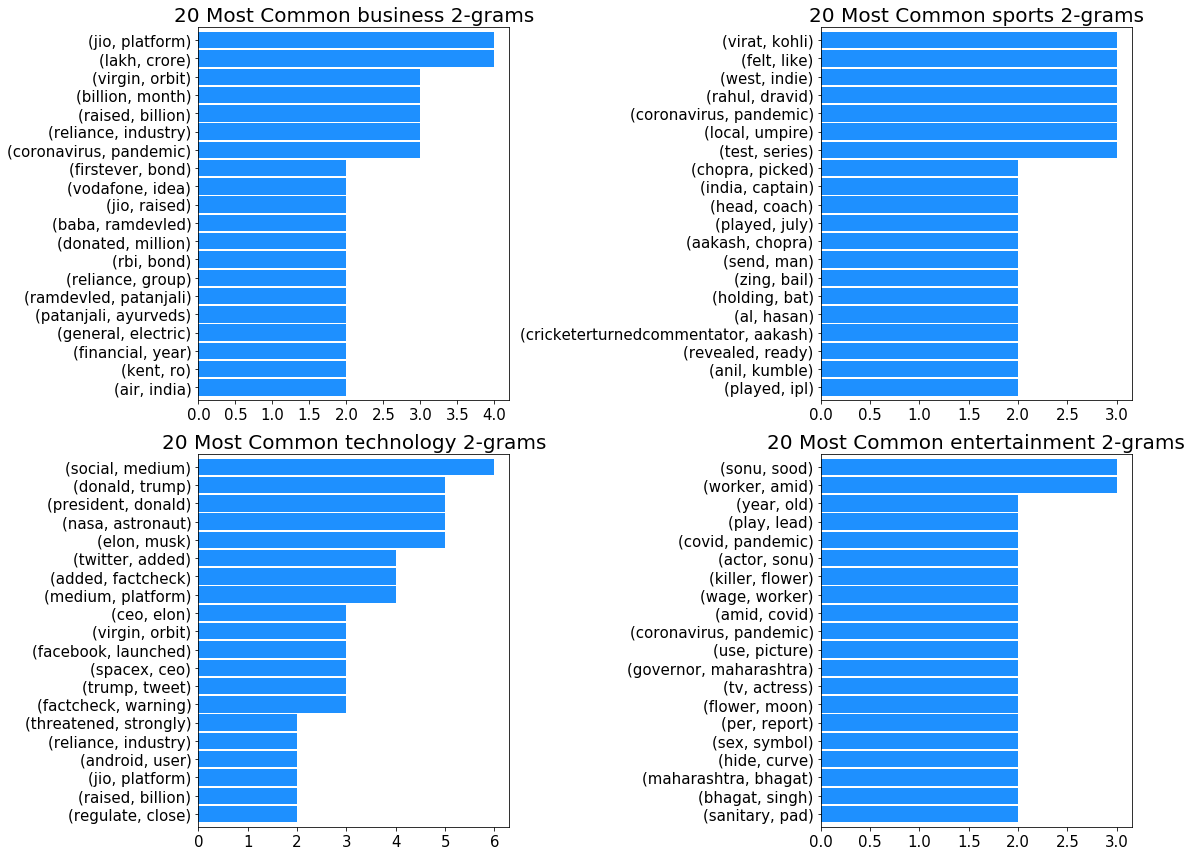
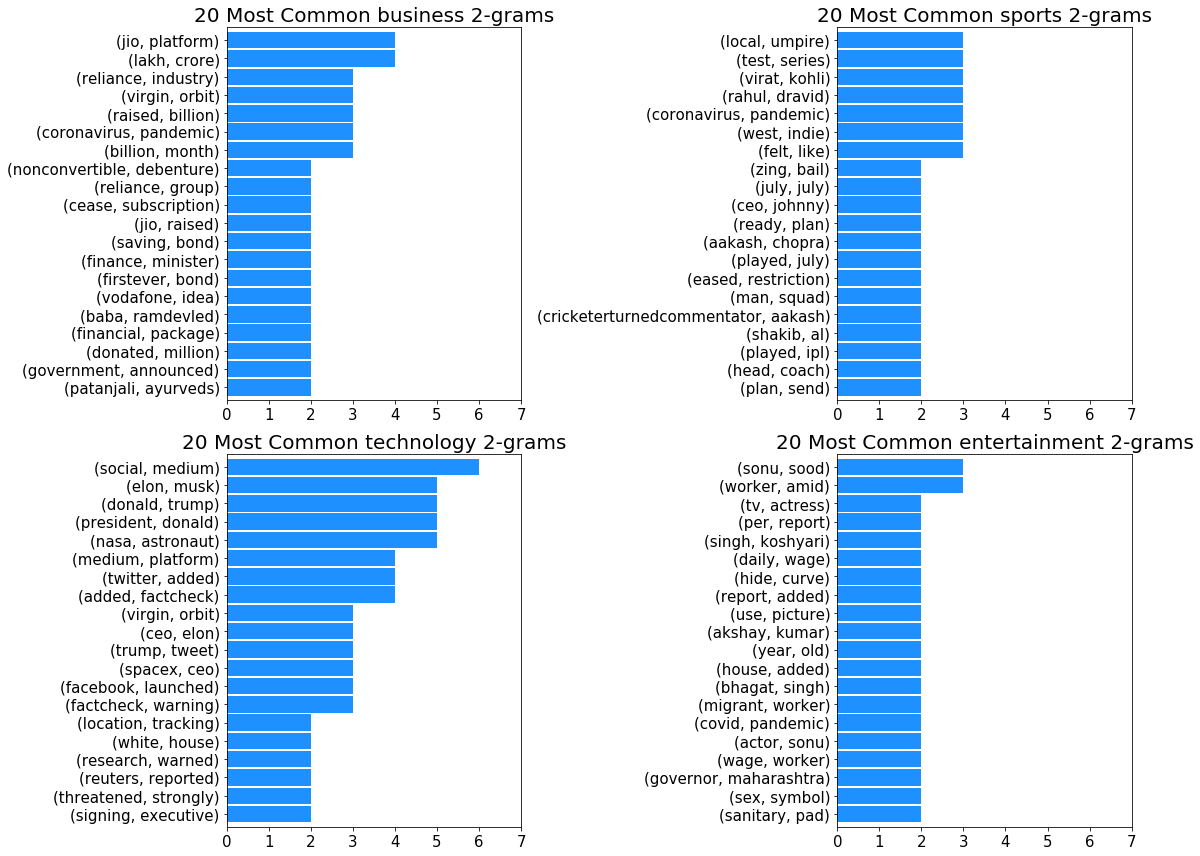
Commit addition of paramter to barchart function to equalize x-axes

diff --git a/nlp_explore_notebook/nlp_explore_notebook.html b/nlp_explore_notebook/nlp_explore_notebook.html
@@ -13740,9 +13740,9 @@ $( document ).ready(function(){
 
 
 <div class="output_text output_subarea output_execute_result">
-<pre>sports           25
+<pre>entertainment    25
 business         25
-entertainment    25
+sports           25
 technology       25
 Name: label, dtype: int64</pre>
 </div>
@@ -14272,8 +14272,8 @@ Name: label, dtype: int64</pre>
 </ul>
 <ul>
 <li><code>ngrams_compare()</code> will take in a df with a <code>label</code> column and a <code>text</code> column, 
-  an int: 1 for unigrams, 2 for bigrams, 3 for trigrams,
-  and a string for color for customization and display horizontal bar chart
+  an int: 1 for unigrams, 2 for bigrams, 3 for trigrams, a string for color customization,
+  and an int to set the max value on the x-axis to equalize subplot axes and display 
   subplots by topic with the top 20 common uni-, bi-, or trigrams.</li>
 </ul>
 
@@ -14877,12 +14877,12 @@ Name: label, dtype: int64</pre>
 <div class="prompt input_prompt">In&nbsp;[33]:</div>
 <div class="inner_cell">
     <div class="input_area">
-<div class=" highlight hl-ipython3"><pre><span></span><span class="k">def</span> <span class="nf">ngrams_compare</span><span class="p">(</span><span class="n">df</span><span class="p">,</span> <span class="n">num</span><span class="p">,</span> <span class="n">color</span><span class="p">):</span>
+<div class=" highlight hl-ipython3"><pre><span></span><span class="k">def</span> <span class="nf">ngrams_compare</span><span class="p">(</span><span class="n">df</span><span class="p">,</span> <span class="n">num</span><span class="p">,</span> <span class="n">color</span><span class="p">,</span> <span class="n">xlim</span><span class="p">):</span>
     <span class="sd">&#39;&#39;&#39;</span>
 <span class="sd">    This function takes in a df with a &#39;label&#39; column and a &#39;text&#39; column, </span>
-<span class="sd">    an int: 1 for unigrams, 2 for bigrams, 3 for trigrams,</span>
-<span class="sd">    and a string for color for customization and displays horizontal bar chart</span>
-<span class="sd">    subplots by topic with the top 20 common uni-, bi-, or trigrams.</span>
+<span class="sd">    an int: 1 for unigrams, 2 for bigrams, 3 for trigrams, a string for color customization, </span>
+<span class="sd">    and an int to set the max value on the x-axis to equalize subplot axes </span>
+<span class="sd">    and displays horizontal bar chart subplots by topic with the top 20 common uni-, bi-, or trigrams.</span>
 <span class="sd">    &#39;&#39;&#39;</span>
     <span class="c1"># create topics list to loop through</span>
     <span class="n">topics</span> <span class="o">=</span> <span class="n">df</span><span class="o">.</span><span class="n">label</span><span class="o">.</span><span class="n">unique</span><span class="p">()</span>
@@ -14912,6 +14912,9 @@ Name: label, dtype: int64</pre>
         
         <span class="c1"># print customized title</span>
         <span class="n">plt</span><span class="o">.</span><span class="n">title</span><span class="p">(</span><span class="s1">&#39;20 Most Common &#39;</span> <span class="o">+</span> <span class="n">topic</span> <span class="o">+</span> <span class="s1">&#39; &#39;</span> <span class="o">+</span> <span class="nb">str</span><span class="p">(</span><span class="n">num</span><span class="p">)</span> <span class="o">+</span> <span class="s1">&#39;-grams&#39;</span><span class="p">,</span> <span class="n">fontsize</span><span class="o">=</span><span class="mi">20</span><span class="p">)</span>
+        
+        <span class="c1"># set x-axis of horizontal bar chart</span>
+        <span class="n">plt</span><span class="o">.</span><span class="n">xlim</span><span class="p">(</span><span class="mi">0</span><span class="p">,</span> <span class="n">xlim</span><span class="p">)</span>
 
         <span class="c1"># reorder y-axis of horizontal bar chart</span>
         <span class="n">plt</span><span class="o">.</span><span class="n">gca</span><span class="p">()</span><span class="o">.</span><span class="n">invert_yaxis</span><span class="p">()</span>
@@ -14931,7 +14934,7 @@ Name: label, dtype: int64</pre>
 <div class="prompt input_prompt">In&nbsp;[34]:</div>
 <div class="inner_cell">
     <div class="input_area">
-<div class=" highlight hl-ipython3"><pre><span></span><span class="n">ngrams_compare</span><span class="p">(</span><span class="n">df_lem</span><span class="p">,</span> <span class="mi">1</span><span class="p">,</span> <span class="s1">&#39;thistle&#39;</span><span class="p">)</span>
+<div class=" highlight hl-ipython3"><pre><span></span><span class="n">ngrams_compare</span><span class="p">(</span><span class="n">df_lem</span><span class="p">,</span> <span class="mi">1</span><span class="p">,</span> <span class="s1">&#39;thistle&#39;</span><span class="p">,</span> <span class="mi">16</span><span class="p">)</span>
 </pre></div>
 
     </div>
@@ -14965,7 +14968,7 @@ Name: label, dtype: int64</pre>
 <div class="prompt input_prompt">In&nbsp;[35]:</div>
 <div class="inner_cell">
     <div class="input_area">
-<div class=" highlight hl-ipython3"><pre><span></span><span class="n">ngrams_compare</span><span class="p">(</span><span class="n">df_lem</span><span class="p">,</span> <span class="mi">2</span><span class="p">,</span> <span class="s1">&#39;dodgerblue&#39;</span><span class="p">)</span>
+<div class=" highlight hl-ipython3"><pre><span></span><span class="n">ngrams_compare</span><span class="p">(</span><span class="n">df_lem</span><span class="p">,</span> <span class="mi">2</span><span class="p">,</span> <span class="s1">&#39;dodgerblue&#39;</span><span class="p">,</span> <span class="mi">7</span><span class="p">)</span>
 </pre></div>
 
     </div>
@@ -14999,7 +15002,7 @@ Name: label, dtype: int64</pre>
 <div class="prompt input_prompt">In&nbsp;[36]:</div>
 <div class="inner_cell">
     <div class="input_area">
-<div class=" highlight hl-ipython3"><pre><span></span><span class="n">ngrams_compare</span><span class="p">(</span><span class="n">df_lem</span><span class="p">,</span> <span class="mi">3</span><span class="p">,</span> <span class="s1">&#39;darkorange&#39;</span><span class="p">)</span>
+<div class=" highlight hl-ipython3"><pre><span></span><span class="n">ngrams_compare</span><span class="p">(</span><span class="n">df_lem</span><span class="p">,</span> <span class="mi">3</span><span class="p">,</span> <span class="s1">&#39;darkorange&#39;</span><span class="p">,</span> <span class="mi">6</span><span class="p">)</span>
 </pre></div>
 
     </div>
@@ -15103,8 +15106,8 @@ Name: label, dtype: int64</pre>
 <pre>billion       14
 company       13
 crore         10
-india          9
 investment     9
+india          9
 dtype: int64</pre>
 </div>
 
@@ -15138,11 +15141,11 @@ dtype: int64</pre>
 
 
 <div class="output_text output_subarea output_execute_result">
-<pre>gaming          1
-son             1
-deal            1
-akash           1
-communicated    1
+<pre>largest    1
+looking    1
+fund       1
+founded    1
+cyrus      1
 dtype: int64</pre>
 </div>
 
@@ -15221,11 +15224,11 @@ dtype: int64</pre>
 
 
 <div class="output_text output_subarea output_execute_result">
-<pre>bhumi         1
-commenting    1
-utensil       1
-cm            1
-instance      1
+<pre>cine     1
+train    1
+child    1
+v        1
+urged    1
 dtype: int64</pre>
 </div>
 
@@ -15268,8 +15271,8 @@ dtype: int64</pre>
 <div class="output_text output_subarea output_execute_result">
 <pre>captain    11
 added      11
-cricket    10
 test       10
+cricket    10
 batsman     8
 dtype: int64</pre>
 </div>
@@ -15304,11 +15307,11 @@ dtype: int64</pre>
 
 
 <div class="output_text output_subarea output_execute_result">
-<pre>march            1
-elite            1
-ill              1
-inzamamulhaq     1
-international    1
+<pre>saleem      1
+sort        1
+starting    1
+major       1
+negative    1
 dtype: int64</pre>
 </div>
 
@@ -15350,8 +15353,8 @@ dtype: int64</pre>
 
 <div class="output_text output_subarea output_execute_result">
 <pre>user        13
-trump       11
 facebook    11
+trump       11
 platform    10
 google      10
 dtype: int64</pre>
@@ -15387,11 +15390,11 @@ dtype: int64</pre>
 
 
 <div class="output_text output_subarea output_execute_result">
-<pre>science     1
-april       1
-hacked      1
-catchup     1
-escobars    1
+<pre>ai           1
+consent      1
+divisive     1
+implement    1
+exploring    1
 dtype: int64</pre>
 </div>
 
@@ -15470,11 +15473,11 @@ dtype: int64</pre>
 
 
 <div class="output_text output_subarea output_execute_result">
-<pre>maanvi    1
-nine      1
-ill       1
-kl        1
-ab        1
+<pre>debut     1
+smooth    1
+zhao      1
+k         1
+okay      1
 dtype: int64</pre>
 </div>
 
@@ -16174,7 +16177,7 @@ dtype: int64</pre>
 
 
 <div class="output_text output_subarea output_execute_result">
-<pre>dict_items([((&#39;jio&#39;, &#39;platform&#39;), 4), ((&#39;lakh&#39;, &#39;crore&#39;), 4), ((&#39;virgin&#39;, &#39;orbit&#39;), 3), ((&#39;billion&#39;, &#39;month&#39;), 3), ((&#39;raised&#39;, &#39;billion&#39;), 3), ((&#39;reliance&#39;, &#39;industry&#39;), 3), ((&#39;coronavirus&#39;, &#39;pandemic&#39;), 3), ((&#39;firstever&#39;, &#39;bond&#39;), 2), ((&#39;vodafone&#39;, &#39;idea&#39;), 2), ((&#39;jio&#39;, &#39;raised&#39;), 2), ((&#39;baba&#39;, &#39;ramdevled&#39;), 2), ((&#39;donated&#39;, &#39;million&#39;), 2), ((&#39;rbi&#39;, &#39;bond&#39;), 2), ((&#39;reliance&#39;, &#39;group&#39;), 2), ((&#39;ramdevled&#39;, &#39;patanjali&#39;), 2), ((&#39;patanjali&#39;, &#39;ayurveds&#39;), 2), ((&#39;general&#39;, &#39;electric&#39;), 2), ((&#39;financial&#39;, &#39;year&#39;), 2), ((&#39;kent&#39;, &#39;ro&#39;), 2), ((&#39;air&#39;, &#39;india&#39;), 2)])</pre>
+<pre>dict_items([((&#39;jio&#39;, &#39;platform&#39;), 4), ((&#39;lakh&#39;, &#39;crore&#39;), 4), ((&#39;reliance&#39;, &#39;industry&#39;), 3), ((&#39;virgin&#39;, &#39;orbit&#39;), 3), ((&#39;raised&#39;, &#39;billion&#39;), 3), ((&#39;coronavirus&#39;, &#39;pandemic&#39;), 3), ((&#39;billion&#39;, &#39;month&#39;), 3), ((&#39;nonconvertible&#39;, &#39;debenture&#39;), 2), ((&#39;reliance&#39;, &#39;group&#39;), 2), ((&#39;cease&#39;, &#39;subscription&#39;), 2), ((&#39;jio&#39;, &#39;raised&#39;), 2), ((&#39;saving&#39;, &#39;bond&#39;), 2), ((&#39;finance&#39;, &#39;minister&#39;), 2), ((&#39;firstever&#39;, &#39;bond&#39;), 2), ((&#39;vodafone&#39;, &#39;idea&#39;), 2), ((&#39;baba&#39;, &#39;ramdevled&#39;), 2), ((&#39;financial&#39;, &#39;package&#39;), 2), ((&#39;donated&#39;, &#39;million&#39;), 2), ((&#39;government&#39;, &#39;announced&#39;), 2), ((&#39;patanjali&#39;, &#39;ayurveds&#39;), 2)])</pre>
 </div>
 
 </div>
@@ -16212,24 +16215,24 @@ dtype: int64</pre>
 <div class="output_text output_subarea output_execute_result">
 <pre>{&#39;jio platform&#39;: 4,
  &#39;lakh crore&#39;: 4,
- &#39;virgin orbit&#39;: 3,
- &#39;billion month&#39;: 3,
- &#39;raised billion&#39;: 3,
  &#39;reliance industry&#39;: 3,
+ &#39;virgin orbit&#39;: 3,
+ &#39;raised billion&#39;: 3,
  &#39;coronavirus pandemic&#39;: 3,
+ &#39;billion month&#39;: 3,
+ &#39;nonconvertible debenture&#39;: 2,
+ &#39;reliance group&#39;: 2,
+ &#39;cease subscription&#39;: 2,
+ &#39;jio raised&#39;: 2,
+ &#39;saving bond&#39;: 2,
+ &#39;finance minister&#39;: 2,
  &#39;firstever bond&#39;: 2,
  &#39;vodafone idea&#39;: 2,
- &#39;jio raised&#39;: 2,
  &#39;baba ramdevled&#39;: 2,
+ &#39;financial package&#39;: 2,
  &#39;donated million&#39;: 2,
- &#39;rbi bond&#39;: 2,
- &#39;reliance group&#39;: 2,
- &#39;ramdevled patanjali&#39;: 2,
- &#39;patanjali ayurveds&#39;: 2,
- &#39;general electric&#39;: 2,
- &#39;financial year&#39;: 2,
- &#39;kent ro&#39;: 2,
- &#39;air india&#39;: 2}</pre>
+ &#39;government announced&#39;: 2,
+ &#39;patanjali ayurveds&#39;: 2}</pre>
 </div>
 
 </div>
